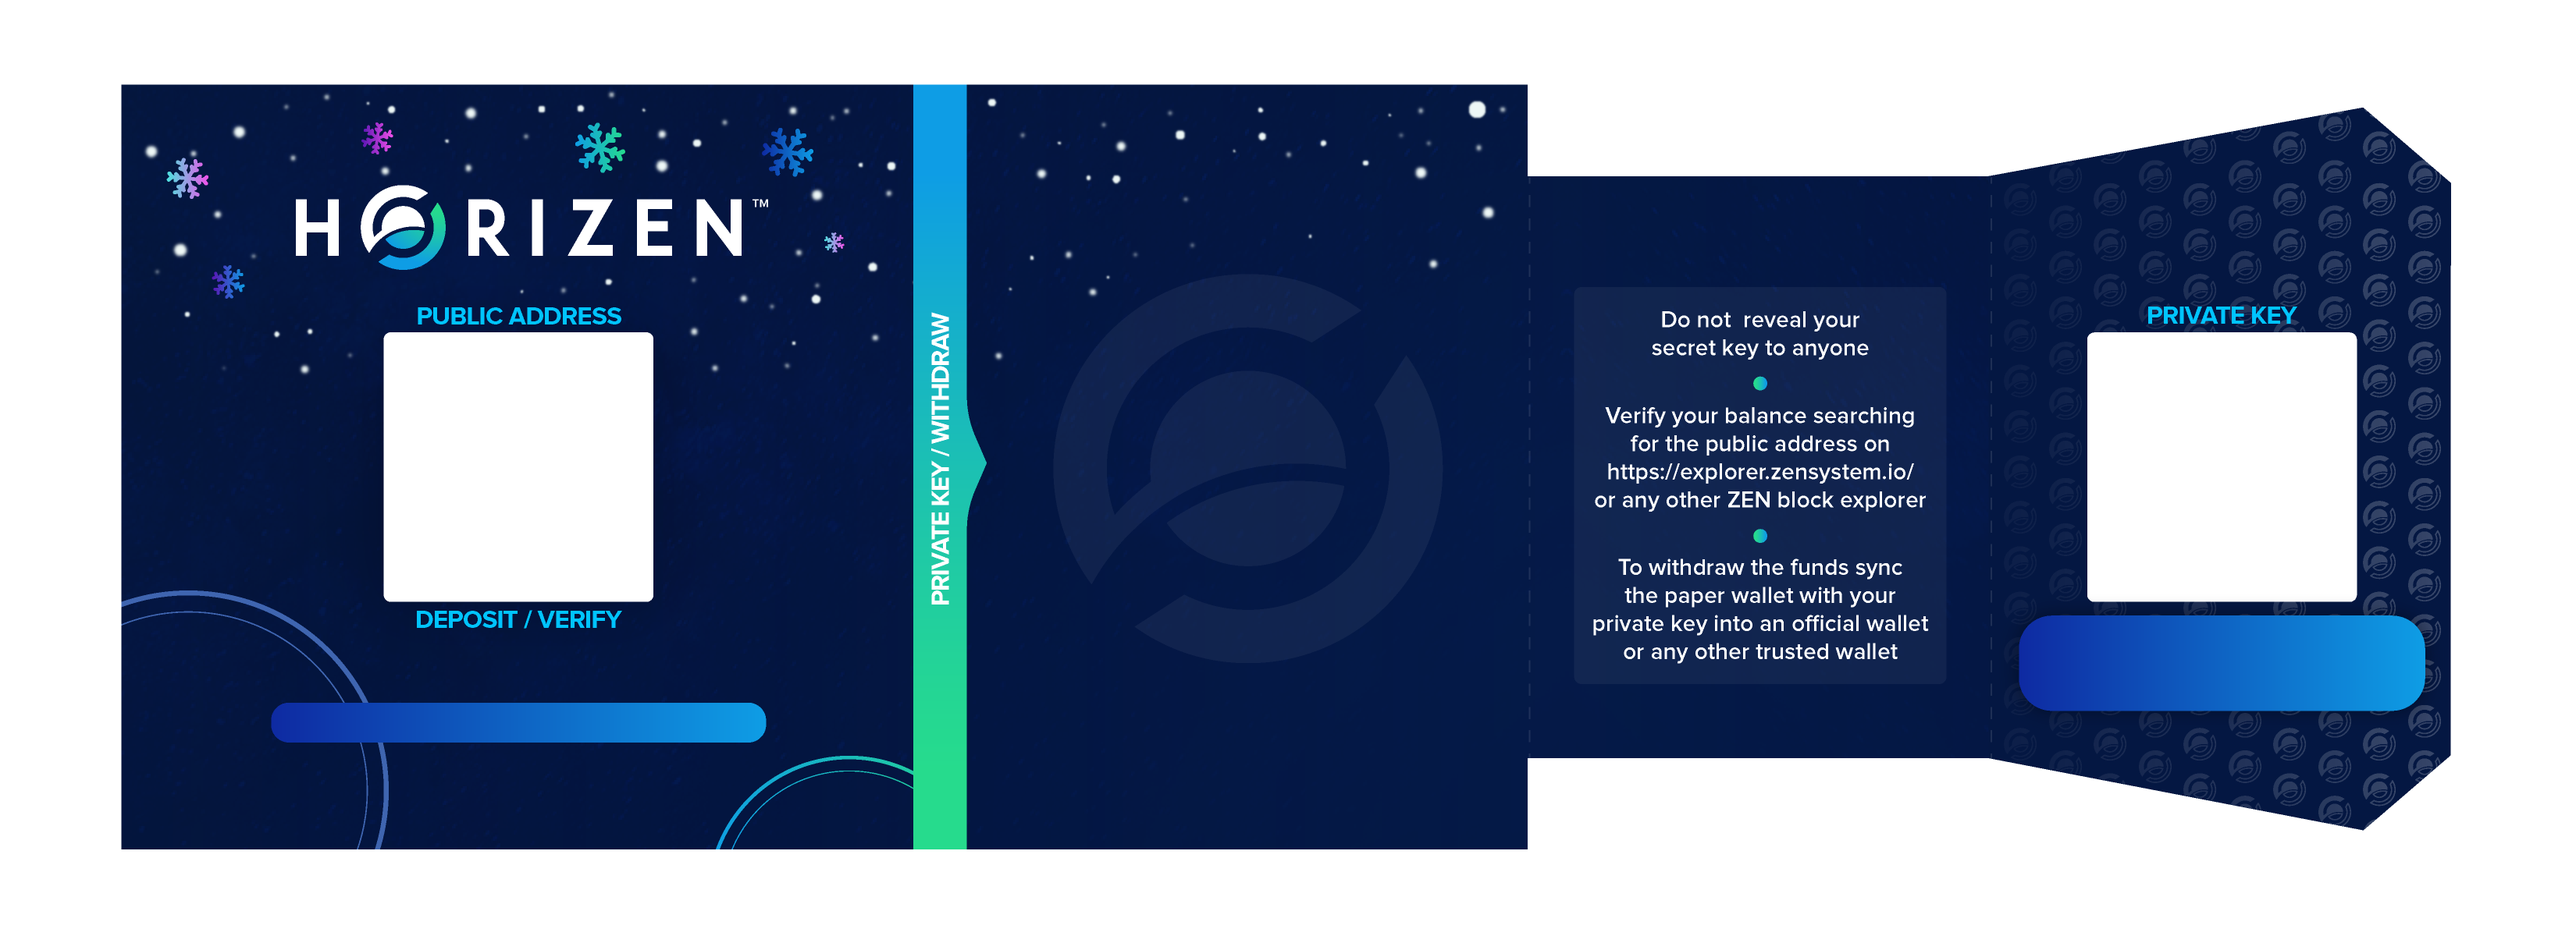
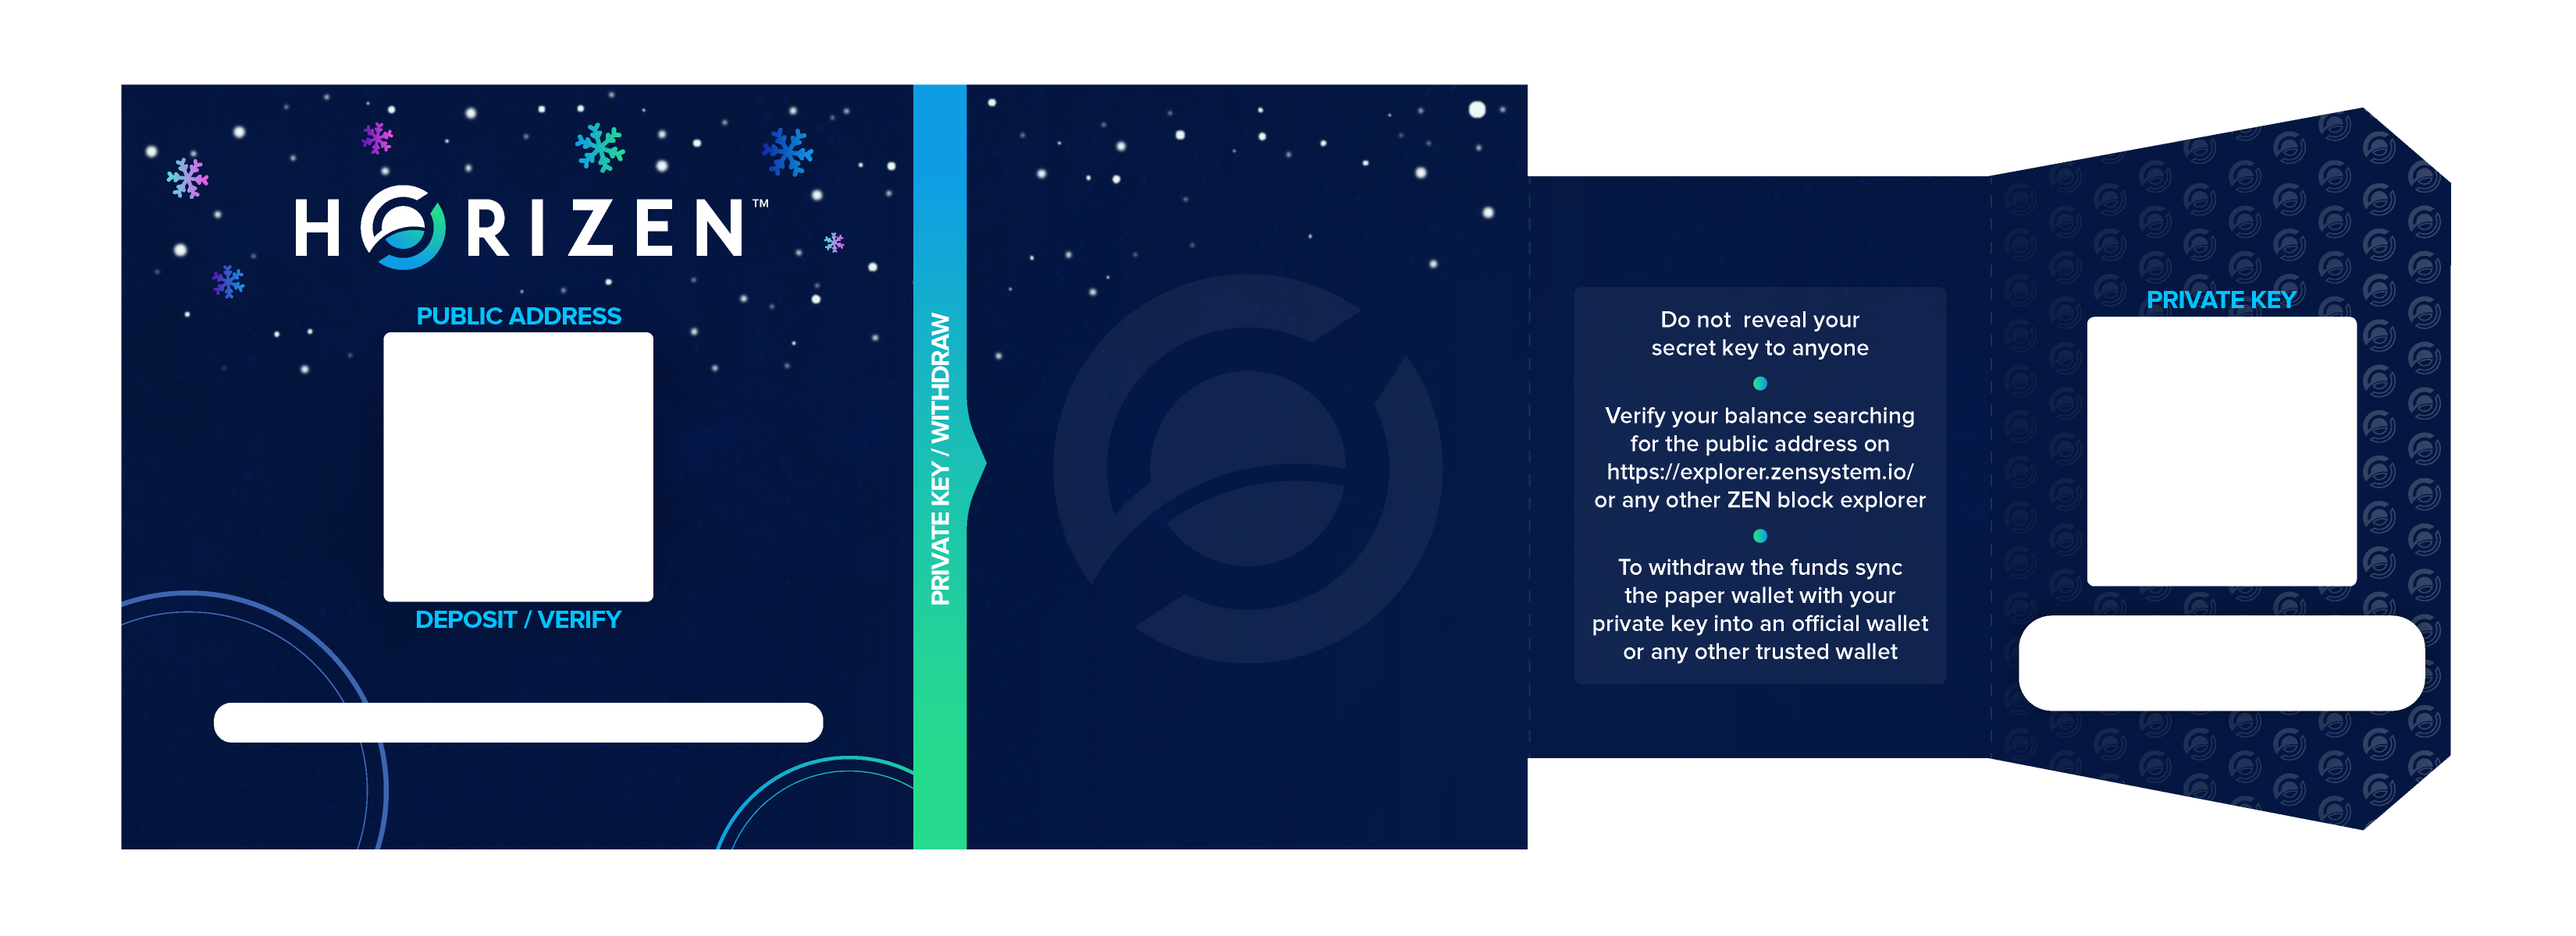
Holiday design for Paper Wallet

Changed region(s): [[0.7803, 0.6167, 0.9676, 0.7708], [0.0624, 0.74, 0.3433, 0.8017], [0.8115, 0.3083, 0.9364, 0.37]]

diff --git a/src/App.css b/src/App.css
@@ -335,19 +335,19 @@ hr{
     #art-area>#wif-QR {
         position: absolute;
         right: 86px;
-        top: 130px;
+        top: 124px;
     }
     #art-area>#wif-QR>svg {
         width: 103px;
     }
 
     #art-area>#addr-str {
-        font-size: 8.5px;
+        font-size: 8px;
         position: absolute;
-        left: 107px;
+        left: 86px;
         top: 275px;
-        width: 190px;
-        color: white;
+        width: 231px;
+        color: black;
     }
 
     #art-area>#wif-str {
@@ -356,11 +356,27 @@ hr{
         top: 248px;
         width: 148px;
         font-size: 7px;
-        color: white;
+        color: black;
     }
 }
 
 @media print {
+    body, html {
+        border: 1px solid white;
+        height: 99%;
+        page-break-after: avoid;
+        page-break-before: avoid;
+    }
+    #root {
+        page-break-after: avoid;
+        page-break-before: avoid;
+        max-width: 800px;
+        max-height: 800px;
+        position: absolute;
+        top: 0;
+        left: 0;
+    }
+
     .screen-only {
         display: none;
     }
@@ -376,7 +392,7 @@ hr{
         padding: 0;
     }
     body{
-        position: relative;
+        /*position: relative;*/
     }
     #header, #footer, .nav, hr, .r1, .r3, h2{
         display: none!important;
@@ -439,32 +455,32 @@ hr{
     }
     #art-area>#wif-QR {
         position: absolute;
-        left: 81.2%;
-        top: 63.4%;
+        left: 81.25%;
+        top: 62.6%;
         width: 10.2%;
     }
     #art-area>#wif-QR>svg {
         width: 100%;
     }
     #art-area>#addr-str {
-        color: #fff!important;
+        color: black !important;
         -webkit-print-color-adjust: exact !important;
         color-adjust: exact !important;
         position: absolute;
-        top: 83.6%;
-        left: 11%;
-        width: 18.5%;
-        font-size: 9px;
+        top: 83.4%;
+        left: 8.8%;
+        width: 22.8%;
+        font-size: 6.5px;
     }
     #art-area>#wif-str {
-        color: #fff!important;
+        color: black !important;
         -webkit-print-color-adjust: exact !important;
         color-adjust: exact !important;
-        font-size: 8px;
         position: absolute;
-        top: 79.5%;
-        left: 79.5%;
-        width: 14%;
+        top: 79.3%;
+        left: 78.8%;
+        width: 15%;
+        font-size: 6.5px;
     }
 
 
